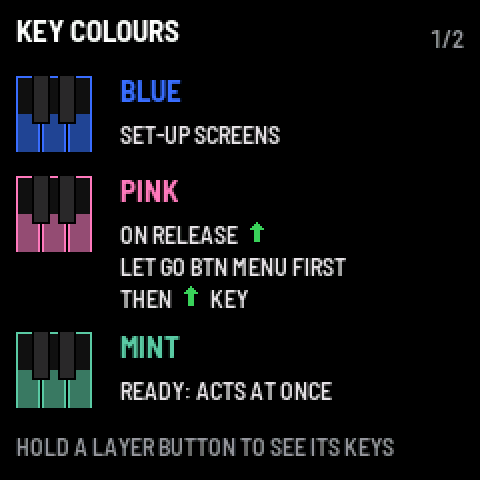
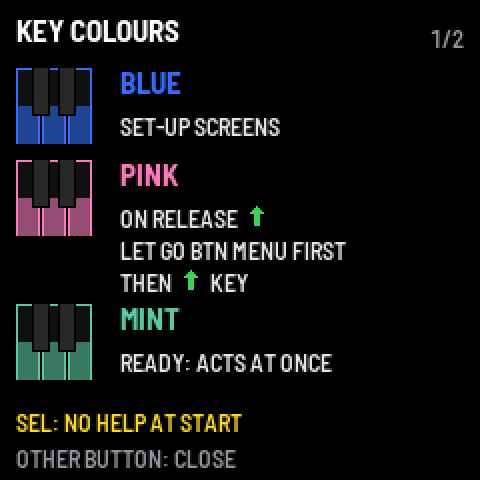
Nine families, SEL turns the help pages off; doc 20 and doc 22 (CORE c613e4e)
Claude-Session: https://claude.ai/code/session_01N9f4HJn3ZZ4mEGDi7YNfQW

diff --git a/docs/_FR/20-sons-et-touches-batterie.md b/docs/_FR/20-sons-et-touches-batterie.md
@@ -1,6 +1,6 @@
 # 20. Les sons et les touches de batterie
 
-PRESET fait défiler les 65 sons d'usine dans cet ordre (neuf familles par caractère, F1–F9, puis USER en « US » ; OCT− / OCT+ sautent de l'une à l'autre, SOUNDS choisit ceux que PRESET propose), puis USER 1–8 : le son d'une piste tel que tu l'as réglé (boutons, SOUND EDIT), gardé avec SAVE + touches blanches 9–16, rechargé avec SAVE + 1–8 ou PRESET. Leur nom dit d'où ils viennent : « U3 ACID 303 » (U = USER).
+PRESET fait défiler les 65 sons d'usine dans cet ordre (neuf familles par caractère, F1–F9 : ACID, BASS, DRUMS, PERC, LEAD, KEYS, SOFT, FX, DARK, les plus joués en premier dans chacune ; puis USER en « US » ; OCT− / OCT+ sautent de l'une à l'autre, SOUNDS choisit ceux que PRESET propose), puis USER 1–8 : le son d'une piste tel que tu l'as réglé (boutons, SOUND EDIT), gardé avec SAVE + touches blanches 9–16, rechargé avec SAVE + 1–8 ou PRESET. Leur nom dit d'où ils viennent : « U3 ACID 303 » (U = USER).
 La piste 1 démarre sur **ACID 303** (pistes 2, 3, 4 : BASS, LEAD, DRUMS 808). A joue les sons de synthé et les sons
 USER qui contiennent un synthé. La même liste sur le FM-1 et le SMK-37. Chaque bouton et touche du FM-1 :
 [05](05-utilisation-fm1.md).
@@ -14,70 +14,70 @@ qui siffle de SCREECH, le son pur de WHALE, les deux scies d'INIT, une grosse ca
 | # | Son | Famille | Ce que c'est |
 |---|---|---|---|
 | 1 | **ACID 303** | F1 acid | façon TB-303 : une scie, forte résonance, enveloppe courte, glide ; les notes jouées fort ouvrent le filtre (accents), les notes qui se chevauchent glissent. |
-| 2 | **ACID SQUARE** | F1 acid | l'autre onde du 303 : un carré, plus creux, le même « squelch » et le glide. |
-| 3 | **ACID SCREAM** | F1 acid | l'acid qui crie : résonance au bord, enveloppe de filtre courte et forte, drive poussé. Pour les montées. |
-| 4 | **SQUELCH** | F1 acid | entre acid et techno : un carré, le filtre très résonant refermé à chaque note, l'accent à la vélocité, saturé, glissé sur les notes liées. |
-| 5 | **SCREECH** | F1 acid | crissement métallique : un filtre au bord du sifflement, balayé et écrasé. |
-| 6 | **GRUNGE** | F1 acid | scies désaccordées et sub, très saturées, phaser et bitcrusher. |
-| 7 | **TALK** | F1 acid | une scie dans un passe-bande étroit qui oscille à la croche : un « yoi » de voyelle, avec le glide et la saturation de l'acid (un seul filtre : une approche d'un vrai formant). |
-| 8 | **BASS** | F2 basses | mono legato avec glide : scie + sous-octave, filtre résonant claquant, saturation. |
-| 9 | **SUB** | F2 basses | triangle rond et sa sous-octave, un peu de saturation. |
-| 10 | **DEEP SUB** | F2 basses | la basse profonde du dub : ronde, sub-oscillateur à fond, presque pas de filtre. |
-| 11 | **BOOM** | F2 basses | une grosse basse façon 808 : triangle rond et sub, la hauteur qui descend un peu à l'attaque, longue tenue, un peu de saturation. |
-| 12 | **PSY BASS** | F2 basses | la basse psytrance : deux scies très légèrement désaccordées et un sub fort, un claquement de filtre, saturée ; elle tient tant que la touche est tenue (des notes courtes donnent les lignes roulantes K-B-B-B). |
-| 13 | **REESE** | F2 basses | la Reese du drum & bass : deux scies désaccordées l'une contre l'autre, filtre bas, mono. |
-| 14 | **WOBBLE** | F2 basses | un LFO au tempo (1/8, repart à chaque note) ouvre et ferme le filtre : le wobble dubstep / DnB. |
-| 15 | **ACID DEEP** | F2 basses | l'acid ronde et hypnotique : filtre bas, déclin long, glide plus long, un peu d'écho (minimale, dub techno). |
-| 16 | **DRUMS 808** | F3 batteries | boîte à rythmes façon analogique : grosse caisse ronde, caisse claire douce, charleys, clap, toms, rim, cowbell, triangle. |
-| 17 | **DRUMS 909** | F3 batteries | façon 909 avec les mêmes voix : grosse caisse plus haute et plus courte avec son clic, caisse claire qui claque, charleys métalliques brillants (calculés, pas d'échantillons). |
-| 18 | **DRUMS TIGHT** | F3 batteries | court et percutant, pour les motifs rapides. |
-| 19 | **DRUMS LOFI** | F3 batteries | sombre et saturé. |
-| 20 | **DRUMS IRON** | F3 batteries | industriel : grave, métallique, distordu, longs charleys qui grésillent. |
-| 21 | **LEAD** | F4 punch | mono legato : carré à largeur modulée + scie une octave au-dessus, vibrato, delay. |
-| 22 | **GOA LEAD** | F4 punch | le lead psytrance / goa : une scie et un carré une octave au-dessus, filtre résonant, vibrato, glissé, long écho. |
-| 23 | **HOOVER** | F4 punch | le « hoover » rave / hard techno : deux scies très écartées, les deux chorus, un glissé lent, saturé. |
-| 24 | **ARP** | F4 punch | taillé pour les arpèges rapides et hypnotiques : scie et carré, filtre claquant, corps court, un écho. |
-| 25 | **PLUCK** | F4 punch | une attaque brillante qui retombe sur un son doux tenu avec la touche, un relâchement qui résonne, chorus et échos. |
-| 26 | **STAB** | F4 punch | le « stab » d'accord house / techno : deux scies et un peu de sub, une attaque de filtre claquante, puis un corps qui tient avec les touches, chorus, un écho. Joue des accords. |
-| 27 | **BRASS** | F4 punch | le filtre s'ouvre après l'attaque, comme un souffle. |
-| 28 | **ORGAN** | F4 punch | triangle + carré une octave au-dessus + sub, chorus II en guise de cabine tournante. |
-| 29 | **VINTAGE KEYS** | F4 punch | un piano électrique des années 70 : une attaque de cloche qui s'éteint, plus sombre joué doux, un trémolo lent et le chorus I. |
-| 30 | **RUBBER** | F5 minimal | la basse minimale : triangle et carré, un filtre bas résonant qui s'ouvre d'un coup à chaque note, courte et rebondie. |
-| 31 | **BLEEP** | F5 minimal | le « bleep » minimal : un son rond, court et aigu, dans un ping-pong d'échos. |
-| 32 | **CLICK** | F5 minimal | la petite percussion accordée de la minimale : un carré et un souffle de bruit dans un passe-bande étroit qui suit la touche. |
-| 33 | **DROPS** | F5 minimal | des gouttes d'eau : un son rond dont la hauteur remonte en s'éteignant (le « ploc »), chacune un peu différente, un écho ; joué vite ou en arpège : un ruissellement. |
-| 34 | **BLIP** | F5 minimal | un tout petit carré, chaque note une hauteur et une brillance au hasard : des motifs rapides et glitchés derrière le mix. |
-| 35 | **METAL** | F5 minimal | un carré et une scie à une neuvième, un peu désaccordés, dans un passe-bande qui sonne : du métal frappé (aigu) ou du bois (grave), qui résonne tant que la touche est tenue et après. Proche d'une percussion FM, sans FM. |
-| 36 | **DUB CHORD** | F6 under | l'accord dub techno : deux scies, un filtre sombre et feutré, un corps court jeté dans un long écho sombre qui tourne. Joue des accords, courts. |
-| 37 | **DEEP STAB** | F6 under | le stab deep house, plus rond et plus chaud que STAB : carré et scie, un claquement de filtre doux, un corps qui tient avec les touches. |
-| 38 | **DEEP PAD** | F6 under | sombre et lent : deux scies et le sub, un filtre bas qui respire sur un LFO lent, longues attaque et relâche, les deux chorus. |
-| 39 | **RUMBLE** | F6 under | le « rumble » techno sous la grosse caisse : un sub sombre et un peu de bruit, le filtre bas, un écho sombre qui se réinjecte. |
-| 40 | **DRONE** | F6 under | un carré une octave plus bas sous une scie, un filtre qui respire sur une demi-minute. Tenir un accord. |
-| 41 | **HOLD** | F6 under | la cale d'un navire : craquements, la coque qui gémit, longs échos. |
-| 42 | **PLATE** | F6 under | une plaque de métal frappée qui résonne : deux carrés à un intervalle étrange dans un passe-bande qui chante, une longue résonance, chorus et écho sombre. |
-| 43 | **CREAK** | F6 under | une porte ou une coque qui grince : une scie grave dans un passe-bande serré, découpée en grains, la hauteur qui ploie lentement ; lent ça gémit, fort ça craque. |
-| 44 | **WIND** | F6 under | bruit filtré : les touches déplacent la bande, un LFO lent respire. |
-| 45 | **RAVE SAX** | F7 world | le sax rave / house des années 90, cuivré : deux scies proches, le filtre soufflé grand ouvert à l'attaque puis qui se pose (le « blat » d'un cuivre), la hauteur qui monte dans la note, un souffle, de la saturation, vibrato, un écho. |
-| 46 | **LUTE** | F7 world | un luth électro sombre : une note pincée et sa quinte (les modes anciens), un claquement résonant, un phaser lent, un écho sombre. |
-| 47 | **FLUTE** | F7 world | une flûte à bec dans une grotte : un triangle rond, du souffle, une attaque douce, vibrato, un long écho sombre. |
-| 48 | **BAGPIPE** | F7 world | une cornemuse électro : deux scies à une quarte (le bourdon sous le chalumeau), un filtre nasillard résonant, saturée, tenue. |
-| 49 | **NOISE** | F8 SFX | du bruit blanc dans un passe-bas, tenu : K1 (cutoff) l'ouvre pour faire ta propre montée. |
-| 50 | **RISER** | F8 SFX | bruit et scie, entendus tout de suite, filtre et hauteur (une octave) qui montent pendant environ 8 s tant que la note est tenue (4 mesures à 120 BPM), puis restent en haut. |
-| 51 | **DOWNLIFTER** | F8 SFX | l'inverse : ouvert et une octave plus haut, il descend et s'éteint en environ 8 s (tenu). |
-| 52 | **ZAP** | F8 SFX | la hauteur plonge de deux octaves en un éclair, un petit écho. |
-| 53 | **LASER** | F8 SFX | une plongée plus longue, le filtre qui chante en descendant, des échos qui le font voler. |
-| 54 | **SHAKER** | F8 SFX | du bruit passe-haut qui pulse à la double croche (un LFO au tempo) : une boucle de charley à tenir. |
-| 55 | **THUNDER** | F8 SFX | le tonnerre : du bruit dans un passe-bas fermé qui monte et gronde ; les notes graves font le boum (le sub), une note frappée fort claque. Tiens-la pour un long roulement. |
-| 56 | **RAIN** | F8 SFX | la pluie : un bruit clair dans un passe-bande, des gouttes par un niveau et un filtre aléatoires rapides ; plus aigu, plus fine. Le chorus l'élargit. |
-| 57 | **DUB SIREN** | F8 SFX | la sirène dub : un carré qui monte et descend sur un LFO lent, dans un long écho. Tenir une note. |
-| 58 | **POLY** | F9 doux | des accords chauds façon Juno : deux scies légèrement désaccordées, filtre à moitié ouvert, attaque douce, les deux chorus. |
-| 59 | **PAD** | F9 doux | attaque lente, filtre qui bouge, chorus façon Juno, delay. |
-| 60 | **STRINGS** | F9 doux | ensemble de cordes : scies désaccordées, attaque lente, les deux chorus. |
-| 61 | **STRINGS 70** | F9 doux | l'orgue à cordes des années 70 : deux scies proches, une attaque douce, les deux chorus à fond (l'ensemble) et un phaser lent. |
-| 62 | **SWEEP** | F9 doux | le pad à travers le phaser. |
-| 63 | **WHALE** | F9 doux | un son pur qui glisse pendant des secondes d'une note à l'autre, balancement lent, échos lointains. Jouer legato, grave. |
-| 64 | **CHOIR** | F9 doux | des scies désaccordées dans un passe-bande autour de la voix, un souffle lent, vibrato, les deux chorus : le chœur synthétique des breaks. |
-| 65 | **INIT** | F9 doux | deux scies légèrement désaccordées : un départ neutre pour SOUND EDIT. |
+| 2 | **SQUELCH** | F1 acid | entre acid et techno : un carré, le filtre très résonant refermé à chaque note, l'accent à la vélocité, saturé, glissé sur les notes liées. |
+| 3 | **ACID SQUARE** | F1 acid | l'autre onde du 303 : un carré, plus creux, le même « squelch » et le glide. |
+| 4 | **ACID DEEP** | F1 acid | l'acid ronde et hypnotique : filtre bas, déclin long, glide plus long, un peu d'écho (minimale, dub techno). |
+| 5 | **ACID SCREAM** | F1 acid | l'acid qui crie : résonance au bord, enveloppe de filtre courte et forte, drive poussé. Pour les montées. |
+| 6 | **TALK** | F1 acid | une scie dans un passe-bande étroit qui oscille à la croche : un « yoi » de voyelle, avec le glide et la saturation de l'acid (un seul filtre : une approche d'un vrai formant). |
+| 7 | **BASS** | F2 bass | mono legato avec glide : scie + sous-octave, filtre résonant claquant, saturation. |
+| 8 | **SUB** | F2 bass | triangle rond et sa sous-octave, un peu de saturation. |
+| 9 | **REESE** | F2 bass | la Reese du drum & bass : deux scies désaccordées l'une contre l'autre, filtre bas, mono. |
+| 10 | **PSY BASS** | F2 bass | la basse psytrance : deux scies très légèrement désaccordées et un sub fort, un claquement de filtre, saturée ; elle tient tant que la touche est tenue (des notes courtes donnent les lignes roulantes K-B-B-B). |
+| 11 | **DEEP SUB** | F2 bass | la basse profonde du dub : ronde, sub-oscillateur à fond, presque pas de filtre. |
+| 12 | **BOOM** | F2 bass | une grosse basse façon 808 : triangle rond et sub, la hauteur qui descend un peu à l'attaque, longue tenue, un peu de saturation. |
+| 13 | **RUBBER** | F2 bass | la basse minimale : triangle et carré, un filtre bas résonant qui s'ouvre d'un coup à chaque note, courte et rebondie. |
+| 14 | **WOBBLE** | F2 bass | un LFO au tempo (1/8, repart à chaque note) ouvre et ferme le filtre : le wobble dubstep / DnB. |
+| 15 | **DRUMS 808** | F3 batteries | boîte à rythmes façon analogique : grosse caisse ronde, caisse claire douce, charleys, clap, toms, rim, cowbell, triangle. |
+| 16 | **DRUMS 909** | F3 batteries | façon 909 avec les mêmes voix : grosse caisse plus haute et plus courte avec son clic, caisse claire qui claque, charleys métalliques brillants (calculés, pas d'échantillons). |
+| 17 | **DRUMS TIGHT** | F3 batteries | court et percutant, pour les motifs rapides. |
+| 18 | **DRUMS LOFI** | F3 batteries | sombre et saturé. |
+| 19 | **DRUMS IRON** | F3 batteries | industriel : grave, métallique, distordu, longs charleys qui grésillent. |
+| 20 | **PLUCK** | F4 perc | une attaque brillante qui retombe sur un son doux tenu avec la touche, un relâchement qui résonne, chorus et échos. |
+| 21 | **BLEEP** | F4 perc | le « bleep » minimal : un son rond, court et aigu, dans un ping-pong d'échos. |
+| 22 | **CLICK** | F4 perc | la petite percussion accordée de la minimale : un carré et un souffle de bruit dans un passe-bande étroit qui suit la touche. |
+| 23 | **METAL** | F4 perc | un carré et une scie à une neuvième, un peu désaccordés, dans un passe-bande qui sonne : du métal frappé (aigu) ou du bois (grave), qui résonne tant que la touche est tenue et après. Proche d'une percussion FM, sans FM. |
+| 24 | **PLATE** | F4 perc | une plaque de métal frappée qui résonne : deux carrés à un intervalle étrange dans un passe-bande qui chante, une longue résonance, chorus et écho sombre. |
+| 25 | **BLIP** | F4 perc | un tout petit carré, chaque note une hauteur et une brillance au hasard : des motifs rapides et glitchés derrière le mix. |
+| 26 | **DROPS** | F4 perc | des gouttes d'eau : un son rond dont la hauteur remonte en s'éteignant (le « ploc »), chacune un peu différente, un écho ; joué vite ou en arpège : un ruissellement. |
+| 27 | **LEAD** | F5 lead | mono legato : carré à largeur modulée + scie une octave au-dessus, vibrato, delay. |
+| 28 | **GOA LEAD** | F5 lead | le lead psytrance / goa : une scie et un carré une octave au-dessus, filtre résonant, vibrato, glissé, long écho. |
+| 29 | **HOOVER** | F5 lead | le « hoover » rave / hard techno : deux scies très écartées, les deux chorus, un glissé lent, saturé. |
+| 30 | **ARP** | F5 lead | taillé pour les arpèges rapides et hypnotiques : scie et carré, filtre claquant, corps court, un écho. |
+| 31 | **RAVE SAX** | F5 lead | le sax rave / house des années 90, cuivré : deux scies proches, le filtre soufflé grand ouvert à l'attaque puis qui se pose (le « blat » d'un cuivre), la hauteur qui monte dans la note, un souffle, de la saturation, vibrato, un écho. |
+| 32 | **BRASS** | F5 lead | le filtre s'ouvre après l'attaque, comme un souffle. |
+| 33 | **BAGPIPE** | F5 lead | une cornemuse électro : deux scies à une quarte (le bourdon sous le chalumeau), un filtre nasillard résonant, saturée, tenue. |
+| 34 | **INIT** | F5 lead | deux scies légèrement désaccordées : un départ neutre pour SOUND EDIT. |
+| 35 | **STAB** | F6 keys | le « stab » d'accord house / techno : deux scies et un peu de sub, une attaque de filtre claquante, puis un corps qui tient avec les touches, chorus, un écho. Joue des accords. |
+| 36 | **DEEP STAB** | F6 keys | le stab deep house, plus rond et plus chaud que STAB : carré et scie, un claquement de filtre doux, un corps qui tient avec les touches. |
+| 37 | **DUB CHORD** | F6 keys | l'accord dub techno : deux scies, un filtre sombre et feutré, un corps court jeté dans un long écho sombre qui tourne. Joue des accords, courts. |
+| 38 | **POLY** | F6 keys | des accords chauds façon Juno : deux scies légèrement désaccordées, filtre à moitié ouvert, attaque douce, les deux chorus. |
+| 39 | **ORGAN** | F6 keys | triangle + carré une octave au-dessus + sub, chorus II en guise de cabine tournante. |
+| 40 | **VINTAGE KEYS** | F6 keys | un piano électrique des années 70 : une attaque de cloche qui s'éteint, plus sombre joué doux, un trémolo lent et le chorus I. |
+| 41 | **LUTE** | F6 keys | un luth électro sombre : une note pincée et sa quinte (les modes anciens), un claquement résonant, un phaser lent, un écho sombre. |
+| 42 | **PAD** | F7 doux | attaque lente, filtre qui bouge, chorus façon Juno, delay. |
+| 43 | **STRINGS** | F7 doux | ensemble de cordes : scies désaccordées, attaque lente, les deux chorus. |
+| 44 | **DEEP PAD** | F7 doux | sombre et lent : deux scies et le sub, un filtre bas qui respire sur un LFO lent, longues attaque et relâche, les deux chorus. |
+| 45 | **STRINGS 70** | F7 doux | l'orgue à cordes des années 70 : deux scies proches, une attaque douce, les deux chorus à fond (l'ensemble) et un phaser lent. |
+| 46 | **CHOIR** | F7 doux | des scies désaccordées dans un passe-bande autour de la voix, un souffle lent, vibrato, les deux chorus : le chœur synthétique des breaks. |
+| 47 | **SWEEP** | F7 doux | le pad à travers le phaser. |
+| 48 | **FLUTE** | F7 doux | une flûte à bec dans une grotte : un triangle rond, du souffle, une attaque douce, vibrato, un long écho sombre. |
+| 49 | **WHALE** | F7 doux | un son pur qui glisse pendant des secondes d'une note à l'autre, balancement lent, échos lointains. Jouer legato, grave. |
+| 50 | **RISER** | F8 FX | bruit et scie, entendus tout de suite, filtre et hauteur (une octave) qui montent pendant environ 8 s tant que la note est tenue (4 mesures à 120 BPM), puis restent en haut. |
+| 51 | **DOWNLIFTER** | F8 FX | l'inverse : ouvert et une octave plus haut, il descend et s'éteint en environ 8 s (tenu). |
+| 52 | **NOISE** | F8 FX | du bruit blanc dans un passe-bas, tenu : K1 (cutoff) l'ouvre pour faire ta propre montée. |
+| 53 | **ZAP** | F8 FX | la hauteur plonge de deux octaves en un éclair, un petit écho. |
+| 54 | **LASER** | F8 FX | une plongée plus longue, le filtre qui chante en descendant, des échos qui le font voler. |
+| 55 | **DUB SIREN** | F8 FX | la sirène dub : un carré qui monte et descend sur un LFO lent, dans un long écho. Tenir une note. |
+| 56 | **SHAKER** | F8 FX | du bruit passe-haut qui pulse à la double croche (un LFO au tempo) : une boucle de charley à tenir. |
+| 57 | **RAIN** | F8 FX | la pluie : un bruit clair dans un passe-bande, des gouttes par un niveau et un filtre aléatoires rapides ; plus aigu, plus fine. Le chorus l'élargit. |
+| 58 | **THUNDER** | F8 FX | le tonnerre : du bruit dans un passe-bas fermé qui monte et gronde ; les notes graves font le boum (le sub), une note frappée fort claque. Tiens-la pour un long roulement. |
+| 59 | **DRONE** | F9 sombre | un carré une octave plus bas sous une scie, un filtre qui respire sur une demi-minute. Tenir un accord. |
+| 60 | **RUMBLE** | F9 sombre | le « rumble » techno sous la grosse caisse : un sub sombre et un peu de bruit, le filtre bas, un écho sombre qui se réinjecte. |
+| 61 | **WIND** | F9 sombre | bruit filtré : les touches déplacent la bande, un LFO lent respire. |
+| 62 | **HOLD** | F9 sombre | la cale d'un navire : craquements, la coque qui gémit, longs échos. |
+| 63 | **CREAK** | F9 sombre | une porte ou une coque qui grince : une scie grave dans un passe-bande serré, découpée en grains, la hauteur qui ploie lentement ; lent ça gémit, fort ça craque. |
+| 64 | **GRUNGE** | F9 sombre | scies désaccordées et sub, très saturées, phaser et bitcrusher. |
+| 65 | **SCREECH** | F9 sombre | crissement métallique : un filtre au bord du sifflement, balayé et écrasé. |
 
 Sur un son de synthé, les quatre boutons SOUND sont CUTOFF, RESO, ENV, FX (delay) ; SOUND EDIT (ARP + SEL) ouvre
 tous les paramètres.

diff --git a/docs/_EN/20-sounds-and-drum-keys.md b/docs/_EN/20-sounds-and-drum-keys.md
@@ -1,6 +1,6 @@
 # 20. The sounds and the drum keys
 
-PRESET turns through the 65 factory sounds in this order (nine families by character, F1–F9, then USER as "US"; OCT− / OCT+ jump between them, SOUNDS chooses which ones PRESET offers), then USER 1–8: a track's sound as you set it (knobs, SOUND EDIT), kept with SAVE + white keys 9–16, loaded with SAVE + 1–8 or PRESET. Their names say where they came from: "U3 ACID 303" (U = USER).
+PRESET turns through the 65 factory sounds in this order (nine families by character, F1–F9: ACID, BASS, DRUMS, PERC, LEAD, KEYS, SOFT, FX, DARK, the most played first in each; then USER as "US"; OCT− / OCT+ jump between them, SOUNDS chooses which ones PRESET offers), then USER 1–8: a track's sound as you set it (knobs, SOUND EDIT), kept with SAVE + white keys 9–16, loaded with SAVE + 1–8 or PRESET. Their names say where they came from: "U3 ACID 303" (U = USER).
 Track 1 starts on **ACID 303** (tracks 2, 3, 4: BASS, LEAD, DRUMS 808). A runs the synth sounds and USER sounds that
 hold a synth. The same list on the FM-1 and the SMK-37. Every button and key of the FM-1: [05](05-using-the-fm1.md).
 
@@ -13,70 +13,70 @@ filter, WHALE's pure tone, INIT's two saws, a kick.
 | # | Sound | Family | What it is |
 |---|---|---|---|
 | 1 | **ACID 303** | F1 acid | TB-303 style: one saw, high resonance, short envelope, glide; hard notes open the filter (accents), overlapping notes slide. |
-| 2 | **ACID SQUARE** | F1 acid | the 303's other wave: a square, hollower, the same squelch and glide. |
-| 3 | **ACID SCREAM** | F1 acid | acid that screams: resonance at the edge, short hard filter envelope, pushed drive. For build-ups. |
-| 4 | **SQUELCH** | F1 acid | between acid and techno: a square, the filter very resonant and snapped shut on each note, accent on velocity, driven, glide on legato notes. |
-| 5 | **SCREECH** | F1 acid | metal screech: a filter on the edge of whistling, swept and crushed. |
-| 6 | **GRUNGE** | F1 acid | detuned saws and sub, driven hard, phaser and bitcrusher. |
-| 7 | **TALK** | F1 acid | a saw through a narrow band-pass swaying on the 1/8: a vowel-like “yoi”, with acid's glide and drive (one filter: an approach of a real formant). |
-| 8 | **BASS** | F2 basses | mono legato with glide: saw + sub-octave, snappy resonant filter, drive. |
-| 9 | **SUB** | F2 basses | round triangle and its sub-octave, a touch of drive. |
-| 10 | **DEEP SUB** | F2 basses | dub's deep sub: round, the sub oscillator full, almost no filter movement. |
-| 11 | **BOOM** | F2 basses | a big 808-style bass: round triangle and sub, the pitch falling a little on the attack, a long hold, a touch of drive. |
-| 12 | **PSY BASS** | F2 basses | the psytrance bass: two saws a hair apart and a strong sub, a clicky filter snap, driven; it holds as long as the key (short notes give the rolling K-B-B-B lines). |
-| 13 | **REESE** | F2 basses | drum & bass Reese: two saws detuned against each other, low-passed, mono. |
-| 14 | **WOBBLE** | F2 basses | an LFO on the tempo (1/8, from each note) opens and shuts the filter: dubstep / DnB wobble. |
-| 15 | **ACID DEEP** | F2 basses | round, hypnotic acid: low filter, long decay, longer glide, a little echo (minimal, dub techno). |
-| 16 | **DRUMS 808** | F3 drums | analog-style drum machine: boomy kick, soft snare, hats, clap, toms, rim, cowbell, triangle. |
-| 17 | **DRUMS 909** | F3 drums | 909 style from the same voices: a higher, shorter kick with its click, a cracking snare, bright metallic hats (computed, not samples). |
-| 18 | **DRUMS TIGHT** | F3 drums | short and punchy, for fast patterns. |
-| 19 | **DRUMS LOFI** | F3 drums | dark and driven. |
-| 20 | **DRUMS IRON** | F3 drums | industrial: low, metallic, distorted, long rattling hats. |
-| 21 | **LEAD** | F4 punch | mono legato: pulse-width-modulated square + saw an octave up, vibrato, delay. |
-| 22 | **GOA LEAD** | F4 punch | the psytrance / goa lead: a saw and a square an octave up, a resonant filter, vibrato, a glide, a long echo. |
-| 23 | **HOOVER** | F4 punch | the rave / hard techno hoover: two saws pulled far apart, both choruses, a slow glide, driven. |
-| 24 | **ARP** | F4 punch | cut for fast hypnotic arpeggios: saw and square, snappy filter, short body, an echo. |
-| 25 | **PLUCK** | F4 punch | a bright attack that dies down to a soft tone held with the key, a ringing release, chorus and echoes. |
-| 26 | **STAB** | F4 punch | the house / techno chord stab: two saws and a little sub, a snappy filter attack, then a body that holds with the keys, chorus, an echo. Play chords. |
-| 27 | **BRASS** | F4 punch | the filter opens after the attack, like a breath. |
-| 28 | **ORGAN** | F4 punch | triangle + square an octave up + sub, chorus II as a rotary. |
-| 29 | **VINTAGE KEYS** | F4 punch | a 70s electric piano: a bell-like start that fades, darker when soft, a slow tremolo and chorus I. |
-| 30 | **RUBBER** | F5 minimal | the minimal bass: triangle and square, a low resonant filter bumped open on each note, short and bouncy. |
-| 31 | **BLEEP** | F5 minimal | the minimal bleep: a round tone, short and high, into a ping-pong of echoes. |
-| 32 | **CLICK** | F5 minimal | minimal's tiny pitched percussion: a square and a breath of noise through a narrow band-pass that follows the key. |
-| 33 | **DROPS** | F5 minimal | water drops: a round tone whose pitch springs up as it dies (the plop), each a little apart, an echo; fast or arpeggiated: a trickle. |
-| 34 | **BLIP** | F5 minimal | a tiny square, each note a random pitch and brightness: glitchy fast patterns behind the mix. |
-| 35 | **METAL** | F5 minimal | a square and a saw a ninth apart, slightly off, through a ringing band-pass: struck metal (high) or wood (low), ringing on while held and after. Close to an FM percussion, without FM. |
-| 36 | **DUB CHORD** | F6 under | the dub techno chord: two saws, a dark muted filter, a short body thrown into a long dark echo that keeps turning. Play chords, short. |
-| 37 | **DEEP STAB** | F6 under | the deep house stab, rounder and warmer than STAB: square and saw, a soft filter snap, a body that holds with the keys. |
-| 38 | **DEEP PAD** | F6 under | dark and slow: two saws and the sub, a low filter breathing on a slow LFO, long attack and release, both choruses. |
-| 39 | **RUMBLE** | F6 under | the techno rumble under the kick: a dark sub and a little noise, the filter low, a dark echo feeding back. |
-| 40 | **DRONE** | F6 under | an octave-down square under a saw, a filter breathing over half a minute. Hold a chord. |
-| 41 | **HOLD** | F6 under | a ship's hold: creaks, the hull groaning, long echoes. |
-| 42 | **PLATE** | F6 under | a struck metal sheet that rings: two squares an odd interval apart through a singing band-pass, a long ring, chorus and a dark echo. |
-| 43 | **CREAK** | F6 under | a door or a hull creaking: a low saw through a sharp band-pass, cut into grains, the pitch slowly bending; slow notes groan, hard ones crack. |
-| 44 | **WIND** | F6 under | filtered noise: the keys move the band, a slow LFO breathes. |
-| 45 | **RAVE SAX** | F7 world | the 90s rave / house sax, brassy: two saws close together, the filter blown open on the attack then settling (a horn's blat), the pitch scooping up into the note, a breath, drive, vibrato, an echo. |
-| 46 | **LUTE** | F7 world | a dark electro lute: a pluck and its fifth (the old modes), a resonant snap, a slow phaser, a dark echo. |
-| 47 | **FLUTE** | F7 world | a breathy recorder from a cave: a round triangle, breath, a soft attack, vibrato, a long dark echo. |
-| 48 | **BAGPIPE** | F7 world | an electro bagpipe: two saws a fourth apart (the drone under the chanter), a nasal resonant filter, driven, held. |
-| 49 | **NOISE** | F8 SFX | white noise in a low-pass, held: K1 (cutoff) opens it for a build-up of your own. |
-| 50 | **RISER** | F8 SFX | noise and a saw, heard at once, filter and pitch (an octave) rising for about 8 s while held (4 bars at 120 BPM), then staying up. |
-| 51 | **DOWNLIFTER** | F8 SFX | the other way: open and an octave up, falling and fading for about 8 s (held). |
-| 52 | **ZAP** | F8 SFX | the pitch dives two octaves in a blink, a little echo. |
-| 53 | **LASER** | F8 SFX | a longer dive, the filter singing on the way down, echoes that keep it flying. |
-| 54 | **SHAKER** | F8 SFX | high-passed noise pulsing on the 1/16 (an LFO on the tempo): a hat loop to hold. |
-| 55 | **THUNDER** | F8 SFX | thunder: noise through a closed low-pass that swells in and rumbles; low notes boom (the sub), a hard hit cracks. Hold it for a long roll. |
-| 56 | **RAIN** | F8 SFX | rain: bright noise in a band-pass, drops from a fast random level and filter; higher notes, lighter rain. Chorus spreads it wide. |
-| 57 | **DUB SIREN** | F8 SFX | the dub siren: a square swept up and down by a slow LFO, into a long echo. Hold a note. |
-| 58 | **POLY** | F9 soft | warm poly chords, Juno style: two saws gently detuned, the filter half open, a soft attack, both choruses. |
-| 59 | **PAD** | F9 soft | slow attack, moving filter, Juno-style chorus, delay. |
-| 60 | **STRINGS** | F9 soft | string ensemble: detuned saws, slow attack, both choruses. |
-| 61 | **STRINGS 70** | F9 soft | a 70s string machine: two saws close together, a gentle attack, both choruses deep (the ensemble) and a slow phaser. |
-| 62 | **SWEEP** | F9 soft | the pad through the phaser. |
-| 63 | **WHALE** | F9 soft | a pure tone sliding for seconds between notes, slow sway, far echoes. Play legato, low. |
-| 64 | **CHOIR** | F9 soft | detuned saws in a band-pass around the voice, a slow breath in, vibrato, both choruses: the breaks' synth choir. |
-| 65 | **INIT** | F9 soft | two slightly detuned saws: a neutral start for SOUND EDIT. |
+| 2 | **SQUELCH** | F1 acid | between acid and techno: a square, the filter very resonant and snapped shut on each note, accent on velocity, driven, glide on legato notes. |
+| 3 | **ACID SQUARE** | F1 acid | the 303's other wave: a square, hollower, the same squelch and glide. |
+| 4 | **ACID DEEP** | F1 acid | round, hypnotic acid: low filter, long decay, longer glide, a little echo (minimal, dub techno). |
+| 5 | **ACID SCREAM** | F1 acid | acid that screams: resonance at the edge, short hard filter envelope, pushed drive. For build-ups. |
+| 6 | **TALK** | F1 acid | a saw through a narrow band-pass swaying on the 1/8: a vowel-like “yoi”, with acid's glide and drive (one filter: an approach of a real formant). |
+| 7 | **BASS** | F2 bass | mono legato with glide: saw + sub-octave, snappy resonant filter, drive. |
+| 8 | **SUB** | F2 bass | round triangle and its sub-octave, a touch of drive. |
+| 9 | **REESE** | F2 bass | drum & bass Reese: two saws detuned against each other, low-passed, mono. |
+| 10 | **PSY BASS** | F2 bass | the psytrance bass: two saws a hair apart and a strong sub, a clicky filter snap, driven; it holds as long as the key (short notes give the rolling K-B-B-B lines). |
+| 11 | **DEEP SUB** | F2 bass | dub's deep sub: round, the sub oscillator full, almost no filter movement. |
+| 12 | **BOOM** | F2 bass | a big 808-style bass: round triangle and sub, the pitch falling a little on the attack, a long hold, a touch of drive. |
+| 13 | **RUBBER** | F2 bass | the minimal bass: triangle and square, a low resonant filter bumped open on each note, short and bouncy. |
+| 14 | **WOBBLE** | F2 bass | an LFO on the tempo (1/8, from each note) opens and shuts the filter: dubstep / DnB wobble. |
+| 15 | **DRUMS 808** | F3 drums | analog-style drum machine: boomy kick, soft snare, hats, clap, toms, rim, cowbell, triangle. |
+| 16 | **DRUMS 909** | F3 drums | 909 style from the same voices: a higher, shorter kick with its click, a cracking snare, bright metallic hats (computed, not samples). |
+| 17 | **DRUMS TIGHT** | F3 drums | short and punchy, for fast patterns. |
+| 18 | **DRUMS LOFI** | F3 drums | dark and driven. |
+| 19 | **DRUMS IRON** | F3 drums | industrial: low, metallic, distorted, long rattling hats. |
+| 20 | **PLUCK** | F4 perc | a bright attack that dies down to a soft tone held with the key, a ringing release, chorus and echoes. |
+| 21 | **BLEEP** | F4 perc | the minimal bleep: a round tone, short and high, into a ping-pong of echoes. |
+| 22 | **CLICK** | F4 perc | minimal's tiny pitched percussion: a square and a breath of noise through a narrow band-pass that follows the key. |
+| 23 | **METAL** | F4 perc | a square and a saw a ninth apart, slightly off, through a ringing band-pass: struck metal (high) or wood (low), ringing on while held and after. Close to an FM percussion, without FM. |
+| 24 | **PLATE** | F4 perc | a struck metal sheet that rings: two squares an odd interval apart through a singing band-pass, a long ring, chorus and a dark echo. |
+| 25 | **BLIP** | F4 perc | a tiny square, each note a random pitch and brightness: glitchy fast patterns behind the mix. |
+| 26 | **DROPS** | F4 perc | water drops: a round tone whose pitch springs up as it dies (the plop), each a little apart, an echo; fast or arpeggiated: a trickle. |
+| 27 | **LEAD** | F5 lead | mono legato: pulse-width-modulated square + saw an octave up, vibrato, delay. |
+| 28 | **GOA LEAD** | F5 lead | the psytrance / goa lead: a saw and a square an octave up, a resonant filter, vibrato, a glide, a long echo. |
+| 29 | **HOOVER** | F5 lead | the rave / hard techno hoover: two saws pulled far apart, both choruses, a slow glide, driven. |
+| 30 | **ARP** | F5 lead | cut for fast hypnotic arpeggios: saw and square, snappy filter, short body, an echo. |
+| 31 | **RAVE SAX** | F5 lead | the 90s rave / house sax, brassy: two saws close together, the filter blown open on the attack then settling (a horn's blat), the pitch scooping up into the note, a breath, drive, vibrato, an echo. |
+| 32 | **BRASS** | F5 lead | the filter opens after the attack, like a breath. |
+| 33 | **BAGPIPE** | F5 lead | an electro bagpipe: two saws a fourth apart (the drone under the chanter), a nasal resonant filter, driven, held. |
+| 34 | **INIT** | F5 lead | two slightly detuned saws: a neutral start for SOUND EDIT. |
+| 35 | **STAB** | F6 keys | the house / techno chord stab: two saws and a little sub, a snappy filter attack, then a body that holds with the keys, chorus, an echo. Play chords. |
+| 36 | **DEEP STAB** | F6 keys | the deep house stab, rounder and warmer than STAB: square and saw, a soft filter snap, a body that holds with the keys. |
+| 37 | **DUB CHORD** | F6 keys | the dub techno chord: two saws, a dark muted filter, a short body thrown into a long dark echo that keeps turning. Play chords, short. |
+| 38 | **POLY** | F6 keys | warm poly chords, Juno style: two saws gently detuned, the filter half open, a soft attack, both choruses. |
+| 39 | **ORGAN** | F6 keys | triangle + square an octave up + sub, chorus II as a rotary. |
+| 40 | **VINTAGE KEYS** | F6 keys | a 70s electric piano: a bell-like start that fades, darker when soft, a slow tremolo and chorus I. |
+| 41 | **LUTE** | F6 keys | a dark electro lute: a pluck and its fifth (the old modes), a resonant snap, a slow phaser, a dark echo. |
+| 42 | **PAD** | F7 soft | slow attack, moving filter, Juno-style chorus, delay. |
+| 43 | **STRINGS** | F7 soft | string ensemble: detuned saws, slow attack, both choruses. |
+| 44 | **DEEP PAD** | F7 soft | dark and slow: two saws and the sub, a low filter breathing on a slow LFO, long attack and release, both choruses. |
+| 45 | **STRINGS 70** | F7 soft | a 70s string machine: two saws close together, a gentle attack, both choruses deep (the ensemble) and a slow phaser. |
+| 46 | **CHOIR** | F7 soft | detuned saws in a band-pass around the voice, a slow breath in, vibrato, both choruses: the breaks' synth choir. |
+| 47 | **SWEEP** | F7 soft | the pad through the phaser. |
+| 48 | **FLUTE** | F7 soft | a breathy recorder from a cave: a round triangle, breath, a soft attack, vibrato, a long dark echo. |
+| 49 | **WHALE** | F7 soft | a pure tone sliding for seconds between notes, slow sway, far echoes. Play legato, low. |
+| 50 | **RISER** | F8 FX | noise and a saw, heard at once, filter and pitch (an octave) rising for about 8 s while held (4 bars at 120 BPM), then staying up. |
+| 51 | **DOWNLIFTER** | F8 FX | the other way: open and an octave up, falling and fading for about 8 s (held). |
+| 52 | **NOISE** | F8 FX | white noise in a low-pass, held: K1 (cutoff) opens it for a build-up of your own. |
+| 53 | **ZAP** | F8 FX | the pitch dives two octaves in a blink, a little echo. |
+| 54 | **LASER** | F8 FX | a longer dive, the filter singing on the way down, echoes that keep it flying. |
+| 55 | **DUB SIREN** | F8 FX | the dub siren: a square swept up and down by a slow LFO, into a long echo. Hold a note. |
+| 56 | **SHAKER** | F8 FX | high-passed noise pulsing on the 1/16 (an LFO on the tempo): a hat loop to hold. |
+| 57 | **RAIN** | F8 FX | rain: bright noise in a band-pass, drops from a fast random level and filter; higher notes, lighter rain. Chorus spreads it wide. |
+| 58 | **THUNDER** | F8 FX | thunder: noise through a closed low-pass that swells in and rumbles; low notes boom (the sub), a hard hit cracks. Hold it for a long roll. |
+| 59 | **DRONE** | F9 dark | an octave-down square under a saw, a filter breathing over half a minute. Hold a chord. |
+| 60 | **RUMBLE** | F9 dark | the techno rumble under the kick: a dark sub and a little noise, the filter low, a dark echo feeding back. |
+| 61 | **WIND** | F9 dark | filtered noise: the keys move the band, a slow LFO breathes. |
+| 62 | **HOLD** | F9 dark | a ship's hold: creaks, the hull groaning, long echoes. |
+| 63 | **CREAK** | F9 dark | a door or a hull creaking: a low saw through a sharp band-pass, cut into grains, the pitch slowly bending; slow notes groan, hard ones crack. |
+| 64 | **GRUNGE** | F9 dark | detuned saws and sub, driven hard, phaser and bitcrusher. |
+| 65 | **SCREECH** | F9 dark | metal screech: a filter on the edge of whistling, swept and crushed. |
 
 On a synth sound the four SOUND knobs are CUTOFF, RESO, ENV, FX (delay); SOUND EDIT (ARP + SEL) opens every parameter.
 

diff --git a/docs/_EN/22-screen-keyboard-and-menus.md b/docs/_EN/22-screen-keyboard-and-menus.md
@@ -18,7 +18,7 @@ Each key shows its name (3 characters at most, written top to bottom); a dark or
 
 ## Help at start
 
-Two pages in turn every 3 s. Notes and SEL (NOTE on the SMK-37) leave them up; any other button or a knob closes them and does its job. A logo cut short skips them. OPTION CONTROL: HELP AT START.
+Two pages in turn every 3 s. Notes leave them up; SEL (NOTE on the SMK-37) turns them off for good; any other button or a knob closes them and does its job. A logo cut short skips them. OPTION CONTROL: HELP AT START.
 
 <p><img src="../img/screen-help-1.png" width="320" alt="KEY COLOURS"> <img src="../img/screen-help-2.png" width="320" alt="IN PLAY"></p>
 
@@ -217,13 +217,13 @@ PRESET goes through them in this order, OCT− / OCT+ jump from one family to th
 
 | Family | Sounds |
 |---|---|
-| **F1 ACID** | 1 ACID 303, 2 ACID SQUARE, 3 ACID SCREAM, 4 SQUELCH, 5 SCREECH, 6 GRUNGE, 7 TALK |
-| **F2 BASSES** | 8 BASS, 9 SUB, 10 DEEP SUB, 11 BOOM, 12 PSY BASS, 13 REESE, 14 WOBBLE, 15 ACID DEEP |
-| **F3 DRUMS** | 16 DRUMS 808, 17 DRUMS 909, 18 DRUMS TIGHT, 19 DRUMS LOFI, 20 DRUMS IRON |
-| **F4 PUNCH** | 21 LEAD, 22 GOA LEAD, 23 HOOVER, 24 ARP, 25 PLUCK, 26 STAB, 27 BRASS, 28 ORGAN, 29 VINTAGE KEYS |
-| **F5 MINIMAL** | 30 RUBBER, 31 BLEEP, 32 CLICK, 33 DROPS, 34 BLIP, 35 METAL |
-| **F6 UNDER** | 36 DUB CHORD, 37 DEEP STAB, 38 DEEP PAD, 39 RUMBLE, 40 DRONE, 41 HOLD, 42 PLATE, 43 CREAK, 44 WIND |
-| **F7 WORLD** | 45 RAVE SAX, 46 LUTE, 47 FLUTE, 48 BAGPIPE |
-| **F8 SFX** | 49 NOISE, 50 RISER, 51 DOWNLIFTER, 52 ZAP, 53 LASER, 54 SHAKER, 55 THUNDER, 56 RAIN, 57 DUB SIREN |
-| **F9 SOFT** | 58 POLY, 59 PAD, 60 STRINGS, 61 STRINGS 70, 62 SWEEP, 63 WHALE, 64 CHOIR, 65 INIT |
+| **F1 ACID** | 1 ACID 303, 2 SQUELCH, 3 ACID SQUARE, 4 ACID DEEP, 5 ACID SCREAM, 6 TALK |
+| **F2 BASS** | 7 BASS, 8 SUB, 9 REESE, 10 PSY BASS, 11 DEEP SUB, 12 BOOM, 13 RUBBER, 14 WOBBLE |
+| **F3 DRUMS** | 15 DRUMS 808, 16 DRUMS 909, 17 DRUMS TIGHT, 18 DRUMS LOFI, 19 DRUMS IRON |
+| **F4 PERC** | 20 PLUCK, 21 BLEEP, 22 CLICK, 23 METAL, 24 PLATE, 25 BLIP, 26 DROPS |
+| **F5 LEAD** | 27 LEAD, 28 GOA LEAD, 29 HOOVER, 30 ARP, 31 RAVE SAX, 32 BRASS, 33 BAGPIPE, 34 INIT |
+| **F6 KEYS** | 35 STAB, 36 DEEP STAB, 37 DUB CHORD, 38 POLY, 39 ORGAN, 40 VINTAGE KEYS, 41 LUTE |
+| **F7 SOFT** | 42 PAD, 43 STRINGS, 44 DEEP PAD, 45 STRINGS 70, 46 CHOIR, 47 SWEEP, 48 FLUTE, 49 WHALE |
+| **F8 FX** | 50 RISER, 51 DOWNLIFTER, 52 NOISE, 53 ZAP, 54 LASER, 55 DUB SIREN, 56 SHAKER, 57 RAIN, 58 THUNDER |
+| **F9 DARK** | 59 DRONE, 60 RUMBLE, 61 WIND, 62 HOLD, 63 CREAK, 64 GRUNGE, 65 SCREECH |
 | **US USER** | USER 1–8: your sounds, named after their origin ("U3 ACID 303", "U3 -- NA --" when it is unknown) |

diff --git a/docs/_FR/21-commandes-fm1-smk37.md b/docs/_FR/21-commandes-fm1-smk37.md
@@ -59,7 +59,7 @@ pédale, plus de touches).
 | DRUM KEYS | ORIGINAL / GM | la carte des touches de batterie |
 | PERC 1–4 (FM-1) / 1–6 (SMK-37) | 10 percussions | ce que joue chaque Ré# / Sol# de la batterie |
 | KEYS ON SCREEN | ON / OFF | le clavier à l'écran quand une couche est tenue |
-| HELP AT START | ON / OFF | après le logo, deux pages d'aide qui alternent toutes les 3 s : KEY COLOURS (bleu, rose, menthe) et IN PLAY (EDIT tapé : FULL LOOP AT END, tenu : PART LIVE LOOP ; REC : LIVE OVERDUB). Les notes et SEL (NOTE sur le SMK-37) les laissent ; tout autre bouton ou un bouton rotatif les ferme (et fait son travail). Un logo coupé avant la fin (une touche, un bouton) les saute |
+| HELP AT START | ON / OFF | après le logo, deux pages d'aide qui alternent toutes les 3 s : KEY COLOURS (bleu, rose, menthe) et IN PLAY (EDIT tapé : FULL LOOP AT END, tenu : PART LIVE LOOP ; REC : LIVE OVERDUB). Les notes les laissent ; SEL (NOTE sur le SMK-37) les coupe pour de bon (HELP AT START OFF, cet appui ne fait rien d'autre) ; tout autre bouton ou un bouton rotatif les ferme (et fait son travail). Un logo coupé avant la fin (une touche, un bouton) les saute |
 | T1–T4, A NEW SOUND | SAME PAGE / une page | la page de boutons qu'amène un nouveau son |
 
 ## Voyants

diff --git a/docs/_EN/21-fm1-smk37-controls.md b/docs/_EN/21-fm1-smk37-controls.md
@@ -58,7 +58,7 @@ Same behaviour on both; the SMK-37 only adds what it has more (pads, faders, whe
 | DRUM KEYS | ORIGINAL / GM | the drum keys' map |
 | PERC 1–4 (FM-1) / 1–6 (SMK-37) | 10 percussions | what each drum D# / G# plays |
 | KEYS ON SCREEN | ON / OFF | the screen keyboard while a layer is held |
-| HELP AT START | ON / OFF | after the logo, two help pages in turn every 3 s: KEY COLOURS (blue, pink, mint) and IN PLAY (EDIT tapped: FULL LOOP AT END, held: PART LIVE LOOP; REC: LIVE OVERDUB). Notes and SEL (NOTE on the SMK-37) leave them up; any other button or a knob closes them (and does its job). A logo cut short (a key, a button) skips them |
+| HELP AT START | ON / OFF | after the logo, two help pages in turn every 3 s: KEY COLOURS (blue, pink, mint) and IN PLAY (EDIT tapped: FULL LOOP AT END, held: PART LIVE LOOP; REC: LIVE OVERDUB). Notes leave them up; SEL (NOTE on the SMK-37) turns them off for good (HELP AT START OFF, that press does nothing else); any other button or a knob closes them (and does its job). A logo cut short (a key, a button) skips them |
 | T1–T4, A NEW SOUND | SAME PAGE / a page | the knob page a new sound brings |
 
 ## Lights

diff --git a/README.md b/README.md
@@ -51,7 +51,7 @@ On [The Firmware Hub](https://thefirmwarehub.com): **FM-1_023** (this firmware) 
 | | |
 |---|---|
 | 🎛 **Four tracks, one clock** | synths or drums on each track, own loop lengths, swing, MIDI clock in and out |
-| 🔊 **65 sounds in 9 families** | ACID, BASSES, DRUMS (five kits: 808, 909…), PUNCH, MINIMAL, UNDER, WORLD, SFX, SOFT, then 8 USER sounds of your own; PRESET then OCT−/OCT+ jumps family |
+| 🔊 **65 sounds in 9 families** | ACID, BASS, DRUMS (five kits: 808, 909…), PERC, LEAD, KEYS, SOFT, FX, DARK, then 8 USER sounds of your own; PRESET then OCT−/OCT+ jumps family |
 | 🥁 **Drum keys** | the ORIGINAL map (toms high → low, choosable D# and G#) or GM, with key lights |
 | 🎯 **CAPTURE and LOOP EDIT** | the last phrase you played becomes the loop, in time; then edit it note by note (HOME + 4th black key) |
 | ↩ **Undo everything** | 8 steps: takes, captures, creative gestures, clears, edits |

diff --git a/docs/_FR/05-utilisation-fm1.md b/docs/_FR/05-utilisation-fm1.md
@@ -12,7 +12,7 @@ Le manuel illustré publié avec le firmware est [`targets/fm1/docs/MANUAL.md`](
 |---|---|
 | **Touches** | jouent la piste sélectionnée, avec la vélocité ; aussi envoyées en USB-MIDI (canal 1) |
 | **SELECT** (tourner) | piste 1 à 4 |
-| **PRESET** (tourner) | son de la piste : les 65 sons d'usine famille par famille (ACID, BASSES, DRUMS, PUNCH, MINIMAL, UNDER, WORLD, SFX, SOFT : [20](20-sons-et-touches-batterie.md)), puis USER 1–8 |
+| **PRESET** (tourner) | son de la piste : les 65 sons d'usine famille par famille (ACID, BASS, DRUMS, PERC, LEAD, KEYS, SOFT, FX, DARK : [20](20-sons-et-touches-batterie.md)), puis USER 1–8 |
 | **ALGO** (tourner) | tempo, 20 à 300 BPM |
 | **K1..K4** | la page de boutons (ci-dessous) |
 | **FX** | page suivante (SOUND orange / MACRO cyan / LIVE menthe / SETUP rose / USER violet) |

diff --git a/docs/_EN/05-using-the-fm1.md b/docs/_EN/05-using-the-fm1.md
@@ -12,7 +12,7 @@ This page is the quick reference. How the loops, CAPTURE and the Creative Engine
 |---|---|
 | **Keys** | play the selected track, with velocity; also out over USB-MIDI (channel 1) |
 | **SELECT** (turn) | track 1 to 4 |
-| **PRESET** (turn) | sound of the track: the 65 factory sounds family by family (ACID, BASSES, DRUMS, PUNCH, MINIMAL, UNDER, WORLD, SFX, SOFT: [20](20-sounds-and-drum-keys.md)), then USER 1–8 |
+| **PRESET** (turn) | sound of the track: the 65 factory sounds family by family (ACID, BASS, DRUMS, PERC, LEAD, KEYS, SOFT, FX, DARK: [20](20-sounds-and-drum-keys.md)), then USER 1–8 |
 | **ALGO** (turn) | tempo, 20 to 300 BPM |
 | **K1..K4** | the knob page (below) |
 | **FX** | next knob page (SOUND orange / MACRO cyan / LIVE mint / SETUP pink / USER violet) |

diff --git a/CHANGELOG.md b/CHANGELOG.md
@@ -5,6 +5,13 @@
 
 
 
+## 20 November 2026 — nine new families; SEL on the help pages turns them off
+
+- The 65 sounds in nine families, the most played first in each: ACID, BASS, DRUMS, PERC (short tones), LEAD, KEYS
+  (stabs, chords, keys), SOFT, FX, DARK (drones and the harsh ones); USER last. The sounds' numbers in saves are kept.
+- On the help pages SEL (NOTE on the SMK-37) turns HELP AT START off for good ("SEL: NO HELP AT START"), and that
+  press does nothing else (no tracks layer); another button closes them.
+
 ## 20 November 2026 — LOOP REC on EDIT, SAVE on A, sounds
 
 - EDIT tapped while playing arms a loop take: the first note starts it (the line paints green), EDIT again or a menu
